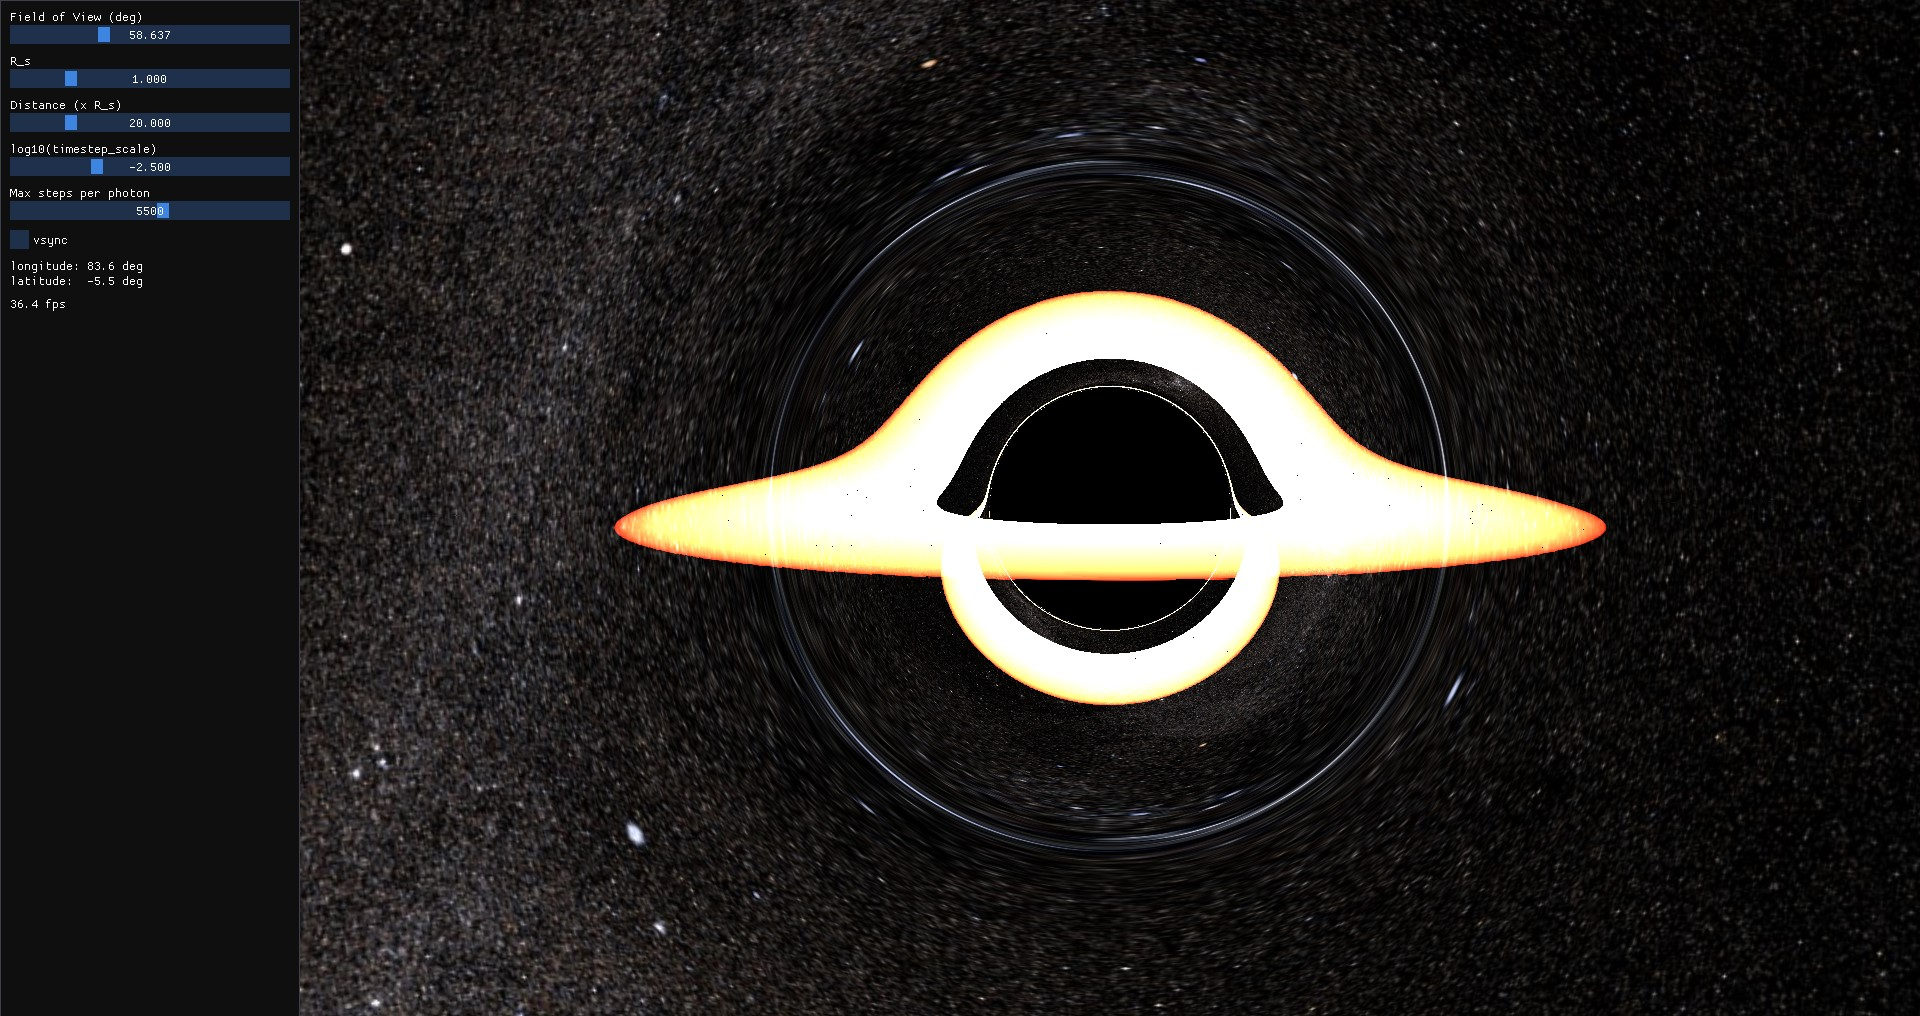
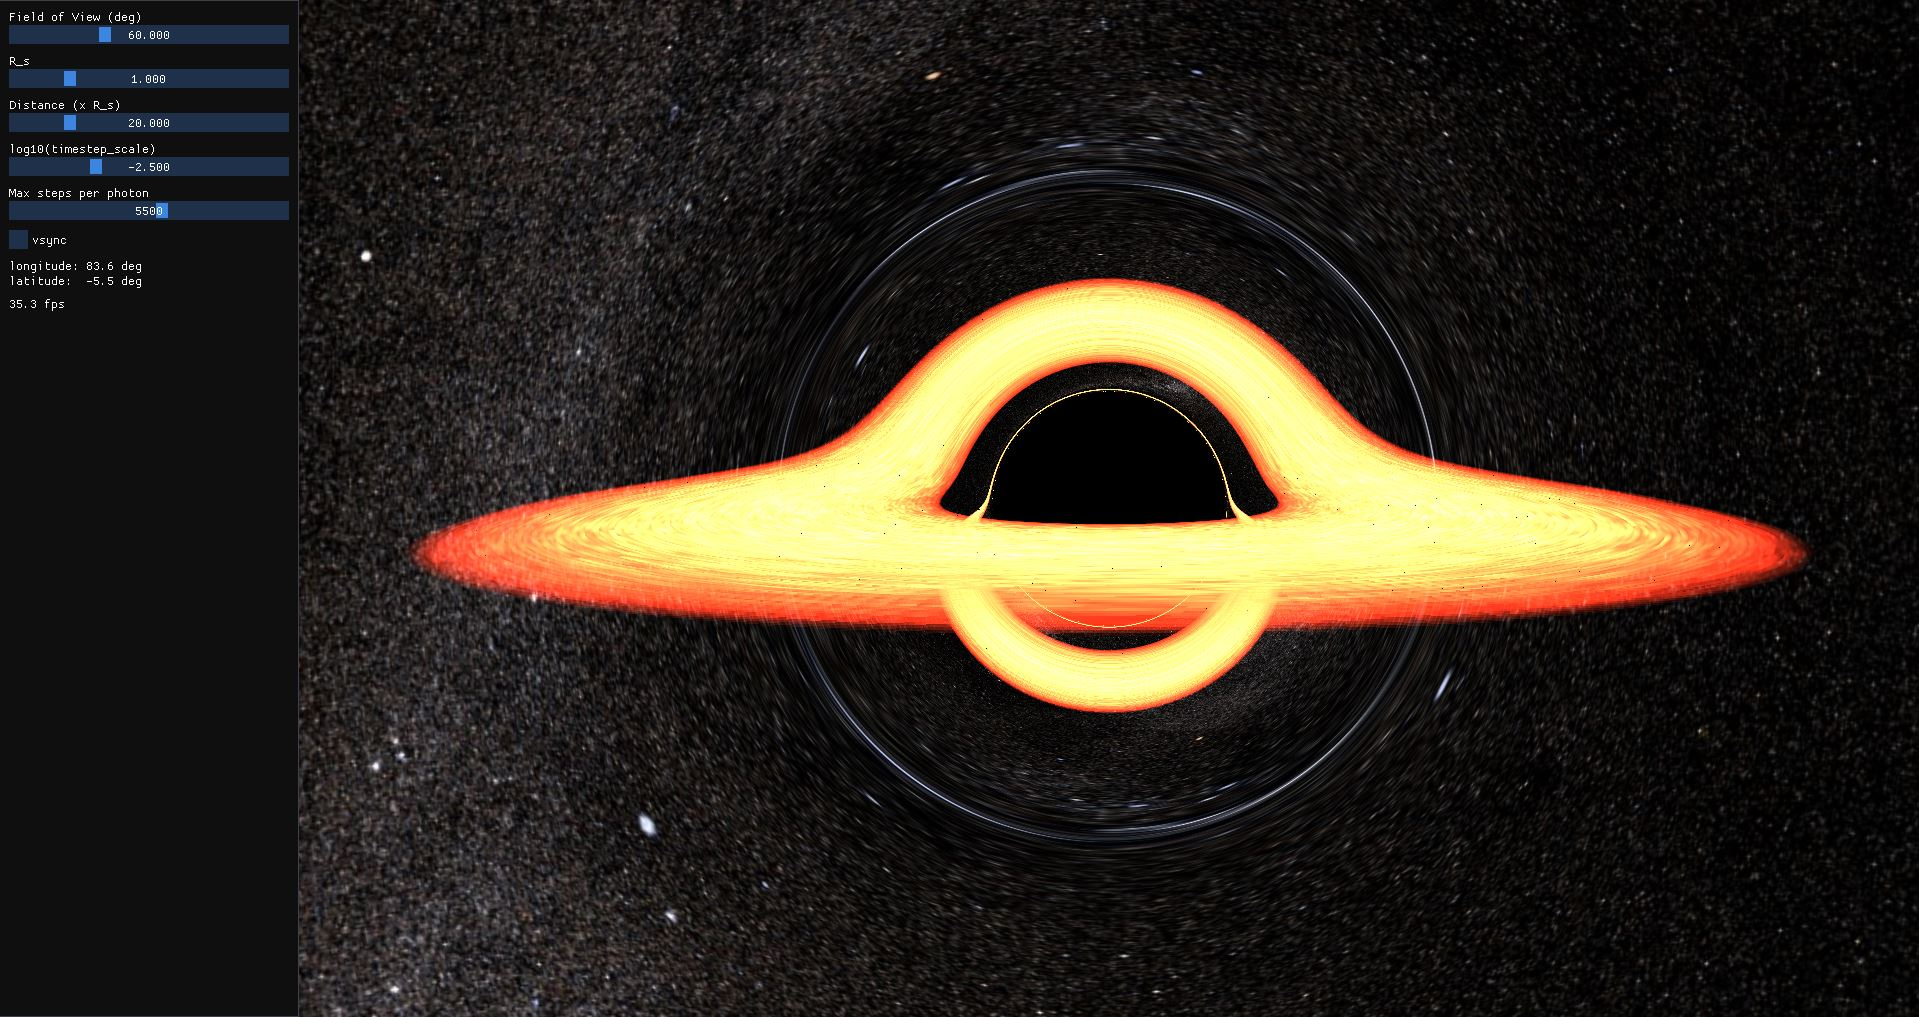
checkbox for accretion disk rendering

diff --git a/src/GUI.cpp b/src/GUI.cpp
@@ -19,6 +19,7 @@ GUI::GUI() {
 	m_log10_timestep_scale = INITIAL_LOG10_TIMESTEP_SCALE;
 	m_maxsteps = INITIAL_MAXSTEPS;
 	m_vsync = VSYNC_START;
+	m_show_accretion_disk = SHOW_ACCRETION_DISK_START;
 	glfwSwapInterval(m_vsync);
 }
 
@@ -62,6 +63,10 @@ void GUI::draw(int width, int height, double latitude, double longitude) {
 	ImGui::SetNextItemWidth(CONTROL_BAR_WIDTH-2*UI_PADDING);
 	ImGui::PushStyleVar(ImGuiStyleVar_ItemSpacing, ImVec2(0,UI_ITEM_SPACING));
 	ImGui::SliderInt("##4", &m_maxsteps, 0, MAX_MAXSTEPS);
+	ImGui::PopStyleVar(1);
+	ImGui::SetNextItemWidth(CONTROL_BAR_WIDTH-2*UI_PADDING);
+	ImGui::PushStyleVar(ImGuiStyleVar_ItemSpacing, ImVec2(0,UI_ITEM_SPACING));
+	ImGui::Checkbox("Accretion Disk", &m_show_accretion_disk);
 	ImGui::PopStyleVar(1);
 	bool vsync_last = m_vsync;
 	ImGui::SetNextItemWidth(CONTROL_BAR_WIDTH-2*UI_PADDING);
@@ -119,6 +124,9 @@ float GUI::timestep_scale() {
 }
 int GUI::maxsteps() {
 	return m_maxsteps;
+}
+bool GUI::show_accretion_disk() {
+	return m_show_accretion_disk;
 }
 
 void GUI::set_fps(double fps) {

diff --git a/src/main.cpp b/src/main.cpp
@@ -46,6 +46,7 @@ void run() {
 		glUniform1f(glGetUniformLocation(shader_program, "timestep_scale"), (float)gui.timestep_scale());
 		glUniform1i(glGetUniformLocation(shader_program, "maxsteps"), (int)gui.maxsteps());
 		glUniform1f(glGetUniformLocation(shader_program, "time"), (float)(glfwGetTime()+777.0));
+		glUniform1i(glGetUniformLocation(shader_program, "show_accretion_disk"), (int)gui.show_accretion_disk());
 		//glClear(GL_COLOR_BUFFER_BIT | GL_DEPTH_BUFFER_BIT);
 		glDrawArrays(GL_TRIANGLES, 0, 6);
 		ImGui_ImplOpenGL3_RenderDrawData(ImGui::GetDrawData());

diff --git a/src/build_settings.hpp b/src/build_settings.hpp
@@ -4,12 +4,13 @@
 #define CONTROL_BAR_WIDTH 300
 #define WINDOW_WIDTH_START 1100
 #define WINDOW_HEIGHT_START 900
-#define FOV_HEIGHT_DEGREES_START 75.0
+#define FOV_HEIGHT_DEGREES_START 60.0
 #define LATITUDE_START -0.0959931089 // start camera facing at Orion Constellation
 #define LONGITUDE_START 1.45937
 #define LONGITUDE_SCROLL_RATE 0.4
 #define LATITUDE_SCROLL_RATE 0.4
 #define VSYNC_START false
+#define SHOW_ACCRETION_DISK_START true
 #define FPS_REFRESH_TIME 1.0
 #define MAX_R_S 5.0
 #define MAX_R_CAMERA 100.0

diff --git a/src/GUI.hpp b/src/GUI.hpp
@@ -15,6 +15,7 @@ class GUI {
 		float r_camera();
 		float timestep_scale();
 		int maxsteps();
+		bool show_accretion_disk();
 		
 	private:
 	
@@ -29,6 +30,7 @@ class GUI {
 		float m_r_camera;
 		float m_log10_timestep_scale;
 		int m_maxsteps;
+		bool m_show_accretion_disk;
 	
 };
 
